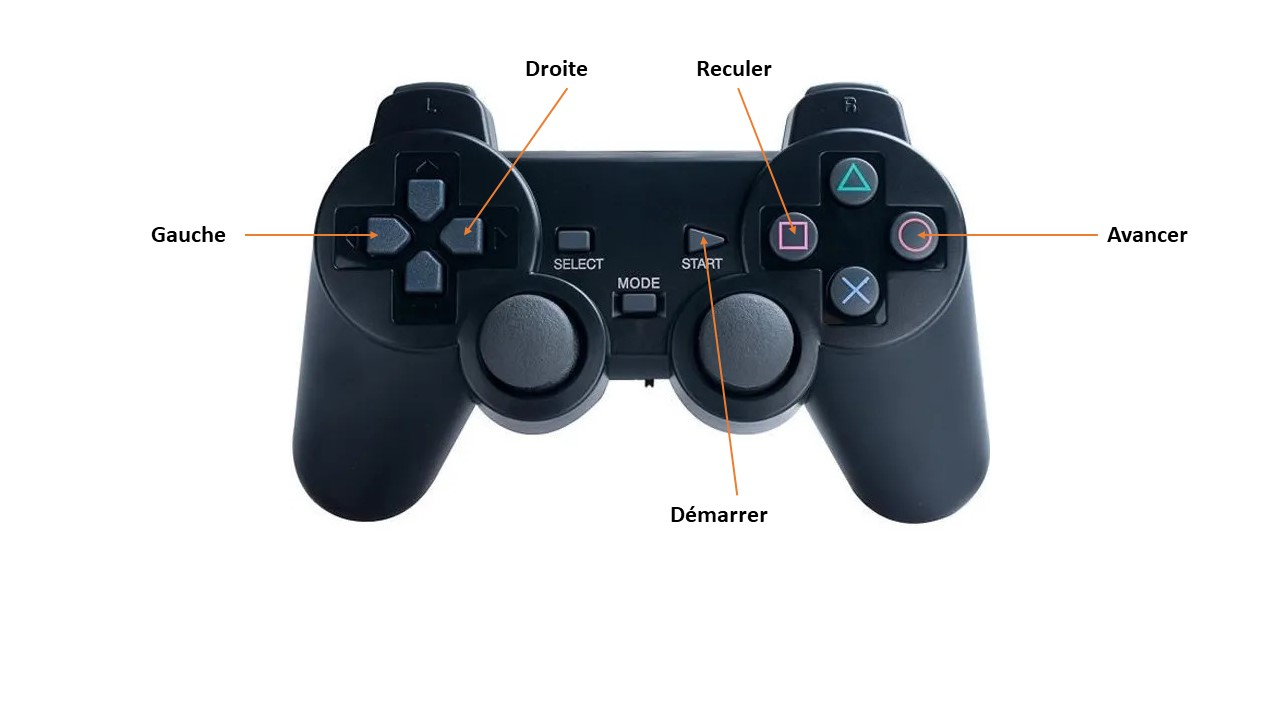
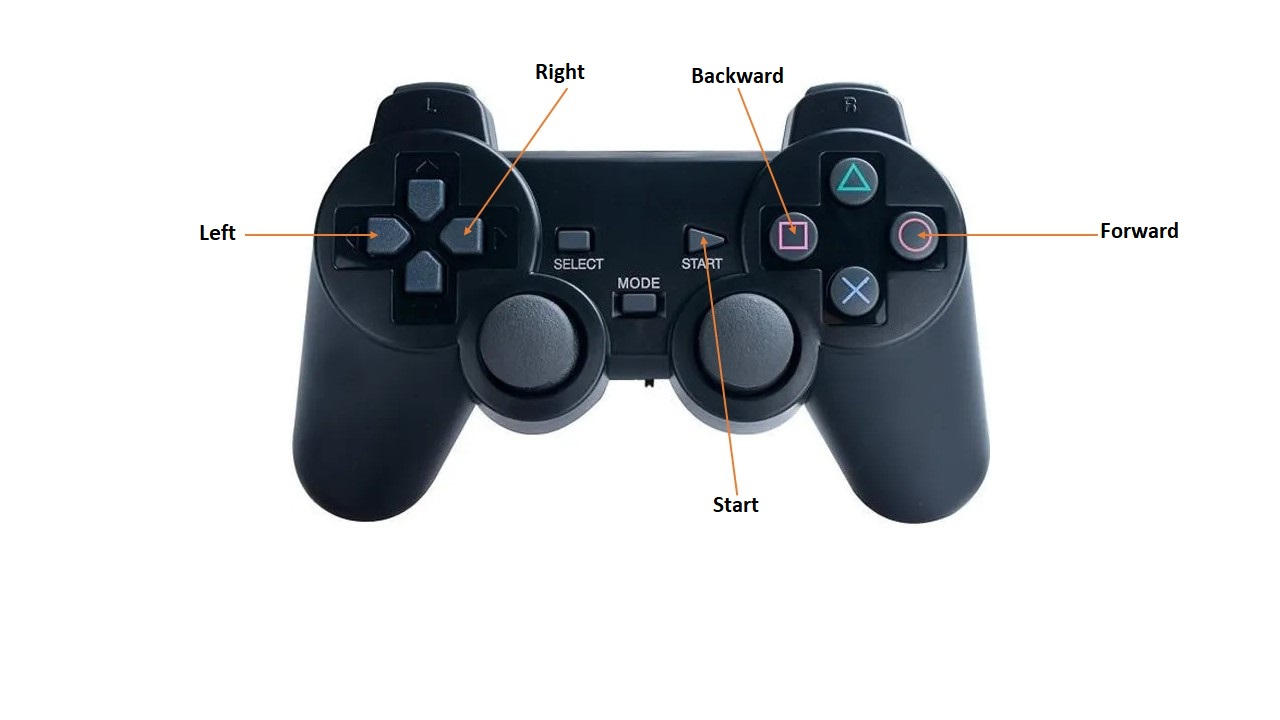
new

diff --git a/README.md b/README.md
@@ -1,41 +1,39 @@
 # Fighting_robot
 
-## Description du projet
+## Project Description
 
-Dans le cadre d'ouverture à la robotique pour les nouveaux membres de mon association étudiante Galiléo, j'ai décidé de développer un robot de combat qui se déplace et renverse ses adversaires. 
-Il est composé de 2 robots, chacun équipé d'un gamepad sans fil. Le robot est équipé de 2 moteurs, d'un module de réception, d'un arduino et d'une batterie 9V. 
-Le robot est contrôlé par un gamepad sans fil.
+As part of an initiative to introduce robotics to new members of my student association Galiléo, I have decided to develop a combat robot that can move and flip over its opponents. The robot is composed of two robots, each equipped with a wireless gamepad. The robot is powered by 2 motors, a receiver module, an Arduino, and a 9V battery. The robot is controlled by a wireless gamepad.
 
-## Matériel
-- 2 moteurs DC 
-- 1 servo-moteur 
-- 1 module de réception
-- gamepad sans fil
-- Arduino Uno
-- batterie 9V
-- pièces détachées
-- LED
-- driver
+## Materials
+2 DC motors
+1 servo motor
+1 receiver module
+wireless gamepad
+Arduino Uno
+9V battery
+spare parts
+LED
+driver
 
-## Logiciel
+## Software
 - Arduino IDE
 
-## Montage
+## Assembly
 
 
-## Contrôle du robot
+## Robot Control
 ![image](images/mannette.jpg)
 
-## Montage des composants
-### montage du transmetteur
+## Assembly of Components
+### Transmitter Assembly
 ![image](images/transmitter.jpg)
 
-### montage du reste du robot
+### Rest of the Robot Assembly
 ![image](images/arduino_bb.jpg)
 
-Le placement des composants est libre, il suffit de respecter les branchements.
+The placement of components is flexible, as long as the connections are respected.
 
-## Références
+## References
 
 - https://github.com/Lynxmotion/Arduino-PS2X
 
